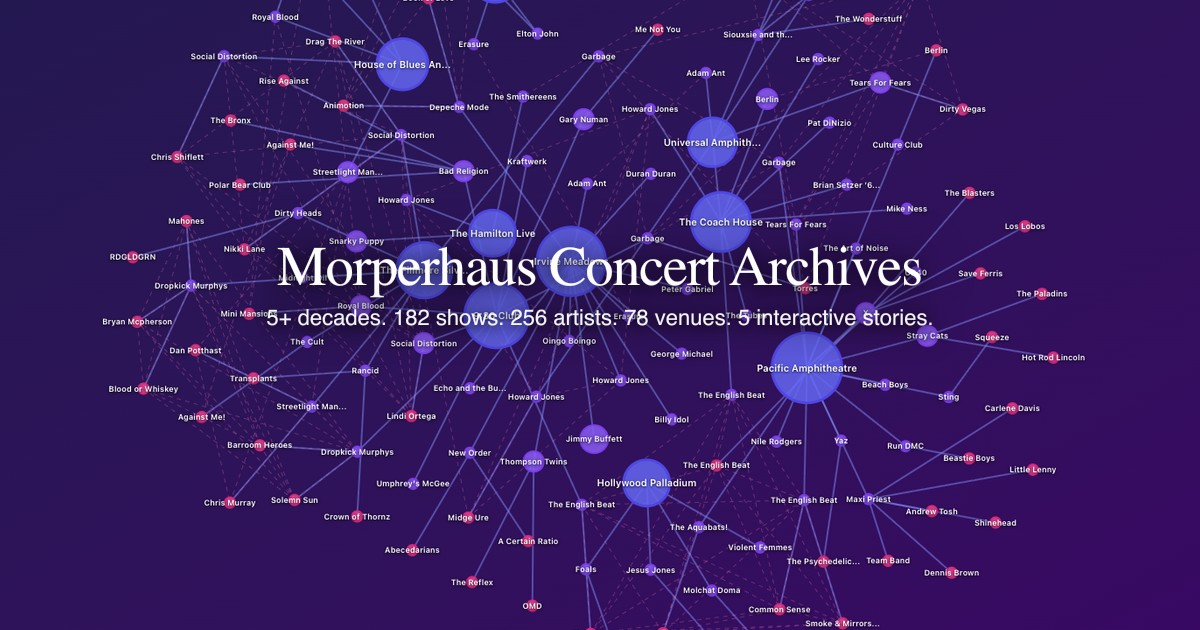
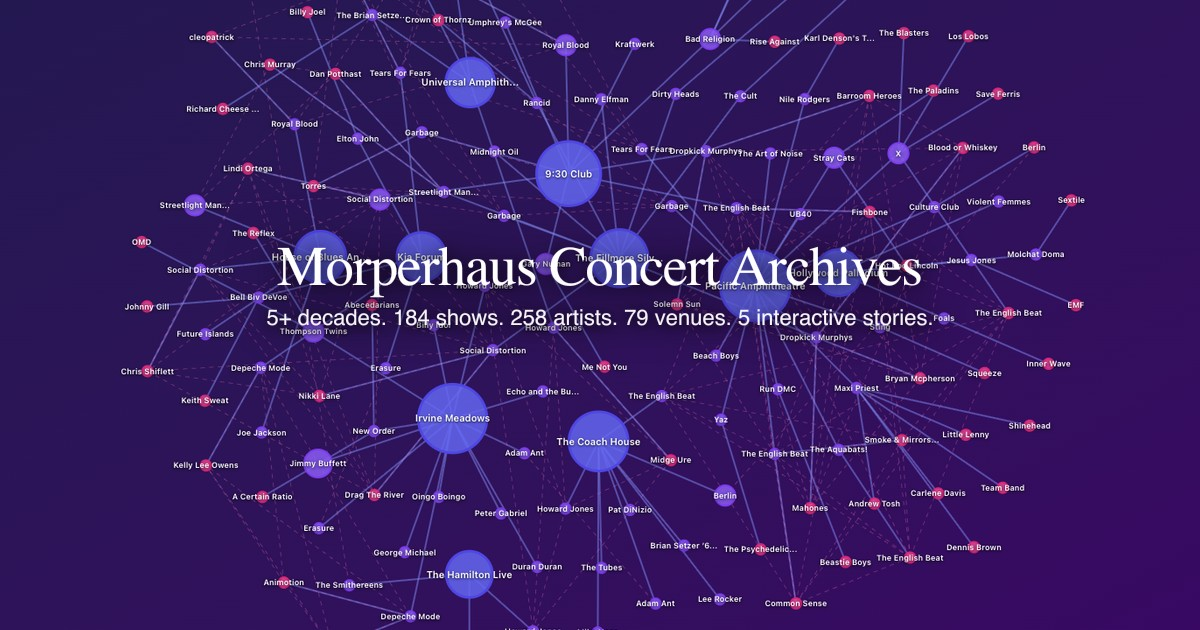
chore: regenerate og-image for v5.1.0, and document its prerequisite
The homepage OG card still carried 182 shows / 256 artists / 78 venues. Now
184 / 258 / 79, matching the release.

og:generate drives a real browser against SITE_URL, which defaults to the
local dev server — so it needs `npm run dev` running, or OG_SITE_URL pointed
somewhere live. Neither the script nor the release checklist said so. Without
a server it fails with ERR_CONNECTION_REFUSED, and in a sandbox that can't
reach localhost it just hangs, which is how it burned ten minutes during the
v5.1.0 release before being killed.

Both now document the two ways to run it, including pointing OG_SITE_URL at
production, which needs no local server at all — that is how this image was
generated.

Changed region(s): [[0.0925, 0.0, 0.925, 1.0], [0.3083, 0.9651, 0.37, 1.0]]

diff --git a/scripts/generate-og-simple.ts b/scripts/generate-og-simple.ts
@@ -2,7 +2,18 @@
 /**
  * Simplified OG Image Generator
  *
- * Takes a screenshot of the Venues scene and overlays title + dynamic stats
+ * Takes a screenshot of the Venues scene and overlays title + dynamic stats.
+ *
+ * REQUIRES A RUNNING SITE. It drives a real browser against SITE_URL, which
+ * defaults to the local dev server. Two ways to run it:
+ *
+ *   npm run dev                                    # in another terminal, then
+ *   npm run og:generate
+ *
+ *   OG_SITE_URL=https://concerts.morperhaus.org npm run og:generate   # no server needed
+ *
+ * Without one of those, puppeteer fails with ERR_CONNECTION_REFUSED — or, in a
+ * sandbox where it can't reach localhost at all, simply hangs.
  */
 
 import puppeteer from 'puppeteer'

diff --git a/.claude/commands/release.md b/.claude/commands/release.md
@@ -253,7 +253,7 @@ Update in order:
 |------|--------|---------|
 | `package.json` | Set `"version": "{VERSION}"` | - |
 | `index.html` + `og-stats.json` | Run `npm run update:meta` to refresh stats | - |
-| `public/og-image.jpg` | Run `npm run og:generate` to regenerate with current stats | - |
+| `public/og-image.jpg` | Run `npm run og:generate` — **needs a running site**: either `npm run dev` in another terminal, or `OG_SITE_URL=https://concerts.morperhaus.org npm run og:generate` against production (no server needed) | - |
 | `docs/ROADMAP.md` | Move completed items (see below) | No items selected |
 | `README.md` "What's New" | Update with this release's highlights | No user-facing changes |
 | `CLAUDE.md` | Update version + stats in header line | - |
